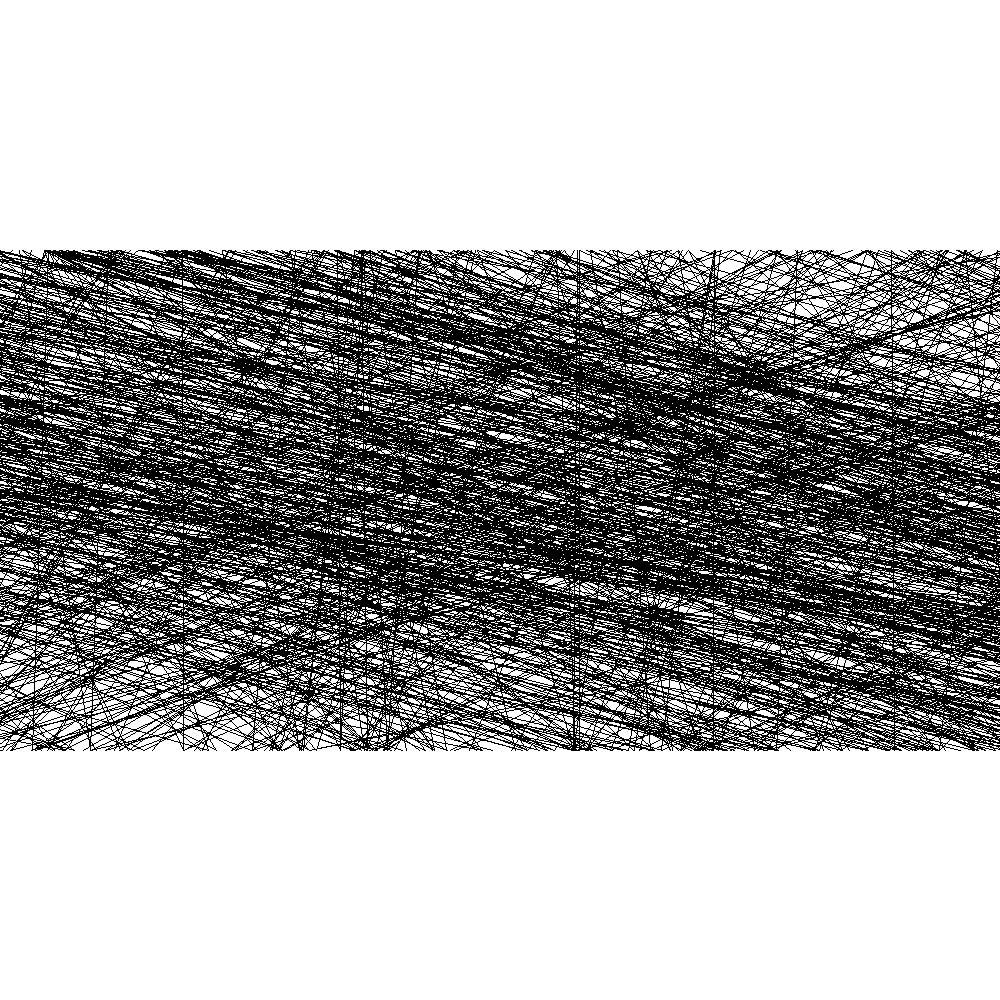
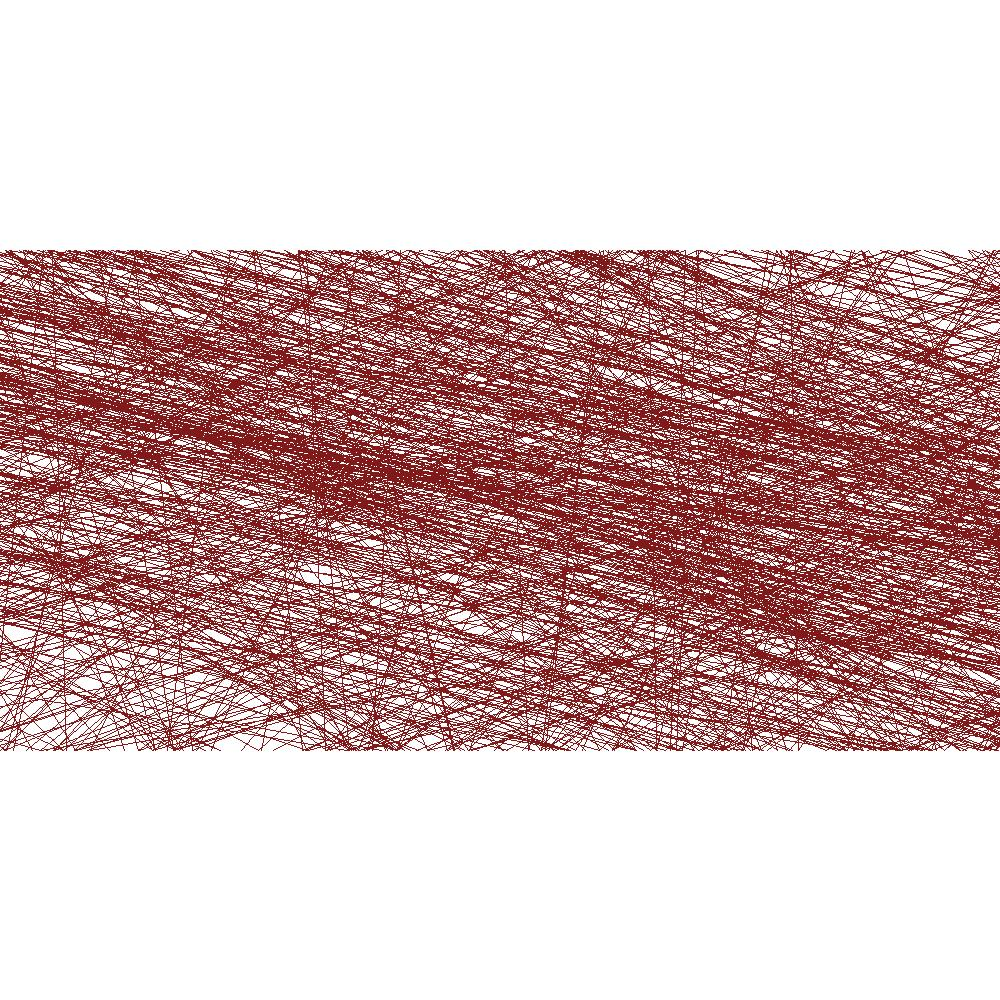
Add rgb property setting to doc samples

diff --git a/docs/samples/draw7.py b/docs/samples/draw7.py
@@ -1,4 +1,5 @@
 from pathlib import Path
+
 from chaos.studio import Studio
 from chaos.canvas import Canvas
 from chaos.technique.trace import Trace
@@ -13,7 +14,7 @@ studio = Studio(
     'docs/samples'
 )
 
-trace = Trace({'fill': 1, 'width': 1})
+trace1 = Trace({'fill': (127, 127, 127), 'width': 2})
 
 coordinates = random_coordinates(
     500,
@@ -28,14 +29,16 @@ coordinates = random_coordinates(
 for coordinate in coordinates:
     studio.execute_technique(
         LineTechnique(
-            trace,
+            trace1,
             (coordinate[0][0], coordinate[0][1]),
             (coordinate[0][0], coordinate[1][1])
         )
     )
 
+trace2 = Trace({'fill': (0, 0, 0), 'width': 1})
+
 coordinates2 = random_coordinates(
-    500,
+    1000,
     333,
     round(canvas_height / 2),
     100,
@@ -47,7 +50,7 @@ coordinates2 = random_coordinates(
 for coordinate in coordinates2:
     studio.execute_technique(
         LineTechnique(
-            trace,
+            trace2,
             (coordinate[0][0], coordinate[0][1]),
             (coordinate[1][0], coordinate[0][1])
         )

diff --git a/docs/samples/draw1.py b/docs/samples/draw1.py
@@ -1,4 +1,5 @@
 from pathlib import Path
+
 from chaos.studio import Studio
 from chaos.canvas import Canvas
 from chaos.technique.trace import Trace
@@ -13,10 +14,9 @@ studio = Studio(
     'docs/samples'
 )
 
-trace = Trace({'fill': 1, 'width': 1})
+trace = Trace({'fill': (0, 0, 0), 'width': 1})
 
 for i in range(100):
-
     coordinates = random_coordinates(
         random_int(1, 50),
         random_int(1, canvas_width),

diff --git a/docs/samples/draw4.py b/docs/samples/draw4.py
@@ -1,4 +1,5 @@
 from pathlib import Path
+
 from chaos.studio import Studio
 from chaos.canvas import Canvas
 from chaos.technique.trace import Trace
@@ -13,7 +14,7 @@ studio = Studio(
     'docs/samples'
 )
 
-trace = Trace({'fill': 1, 'width': 1})
+trace = Trace({'fill': (128, 25, 25), 'width': 1})
 
 coordinates = random_coordinates(
     1000,

diff --git a/docs/samples/draw5.py b/docs/samples/draw5.py
@@ -1,4 +1,5 @@
 from pathlib import Path
+
 from chaos.studio import Studio
 from chaos.canvas import Canvas
 from chaos.technique.trace import Trace
@@ -13,7 +14,7 @@ studio = Studio(
     'docs/samples'
 )
 
-trace = Trace({'fill': 1, 'width': 1})
+trace = Trace({'fill': (0, 0, 0), 'width': 1})
 
 coordinates = random_coordinates(
     1000,

diff --git a/docs/samples/draw6.py b/docs/samples/draw6.py
@@ -1,4 +1,5 @@
 from pathlib import Path
+
 from chaos.studio import Studio
 from chaos.canvas import Canvas
 from chaos.technique.trace import Trace
@@ -13,7 +14,7 @@ studio = Studio(
     'docs/samples'
 )
 
-trace = Trace({'fill': 1, 'width': 1})
+trace = Trace({'fill': (0, 0, 0), 'width': 1})
 
 coordinates = random_coordinates(
     1000,

diff --git a/docs/samples/draw2.py b/docs/samples/draw2.py
@@ -1,4 +1,5 @@
 from pathlib import Path
+
 from chaos.studio import Studio
 from chaos.canvas import Canvas
 from chaos.technique.trace import Trace
@@ -13,7 +14,7 @@ studio = Studio(
     'docs/samples'
 )
 
-trace = Trace({'fill': 1, 'width': 1})
+trace = Trace({'fill': (0, 0, 0), 'width': 1})
 
 coordinates = random_coordinates(
     500,

diff --git a/docs/samples/draw3.py b/docs/samples/draw3.py
@@ -1,4 +1,5 @@
 from pathlib import Path
+
 from chaos.studio import Studio
 from chaos.canvas import Canvas
 from chaos.technique.trace import Trace
@@ -13,7 +14,7 @@ studio = Studio(
     'docs/samples'
 )
 
-trace = Trace({'fill': 1, 'width': 1})
+trace = Trace({'fill': (0, 0, 0), 'width': 1})
 
 coordinates = random_coordinates(
     500,

diff --git a/chaos/technique/line_technique.py b/chaos/technique/line_technique.py
@@ -1,7 +1,8 @@
 from PIL import Image as Canvas
 from PIL.ImageDraw import Draw
+
 from .technique import Technique
-from trace import Trace
+from .trace import Trace
 
 
 class LineTechnique(Technique):

diff --git a/chaos/technique/technique.py b/chaos/technique/technique.py
@@ -1,6 +1,7 @@
 from abc import ABC, abstractmethod
 from PIL import Image as Canvas
-from trace import Trace
+
+from .trace import Trace
 
 
 class Technique(ABC):

diff --git a/chaos/studio.py b/chaos/studio.py
@@ -1,5 +1,6 @@
 from os import path, mkdir
 from PIL import Image as Canvas
+
 from .technique.technique import Technique
 
 
